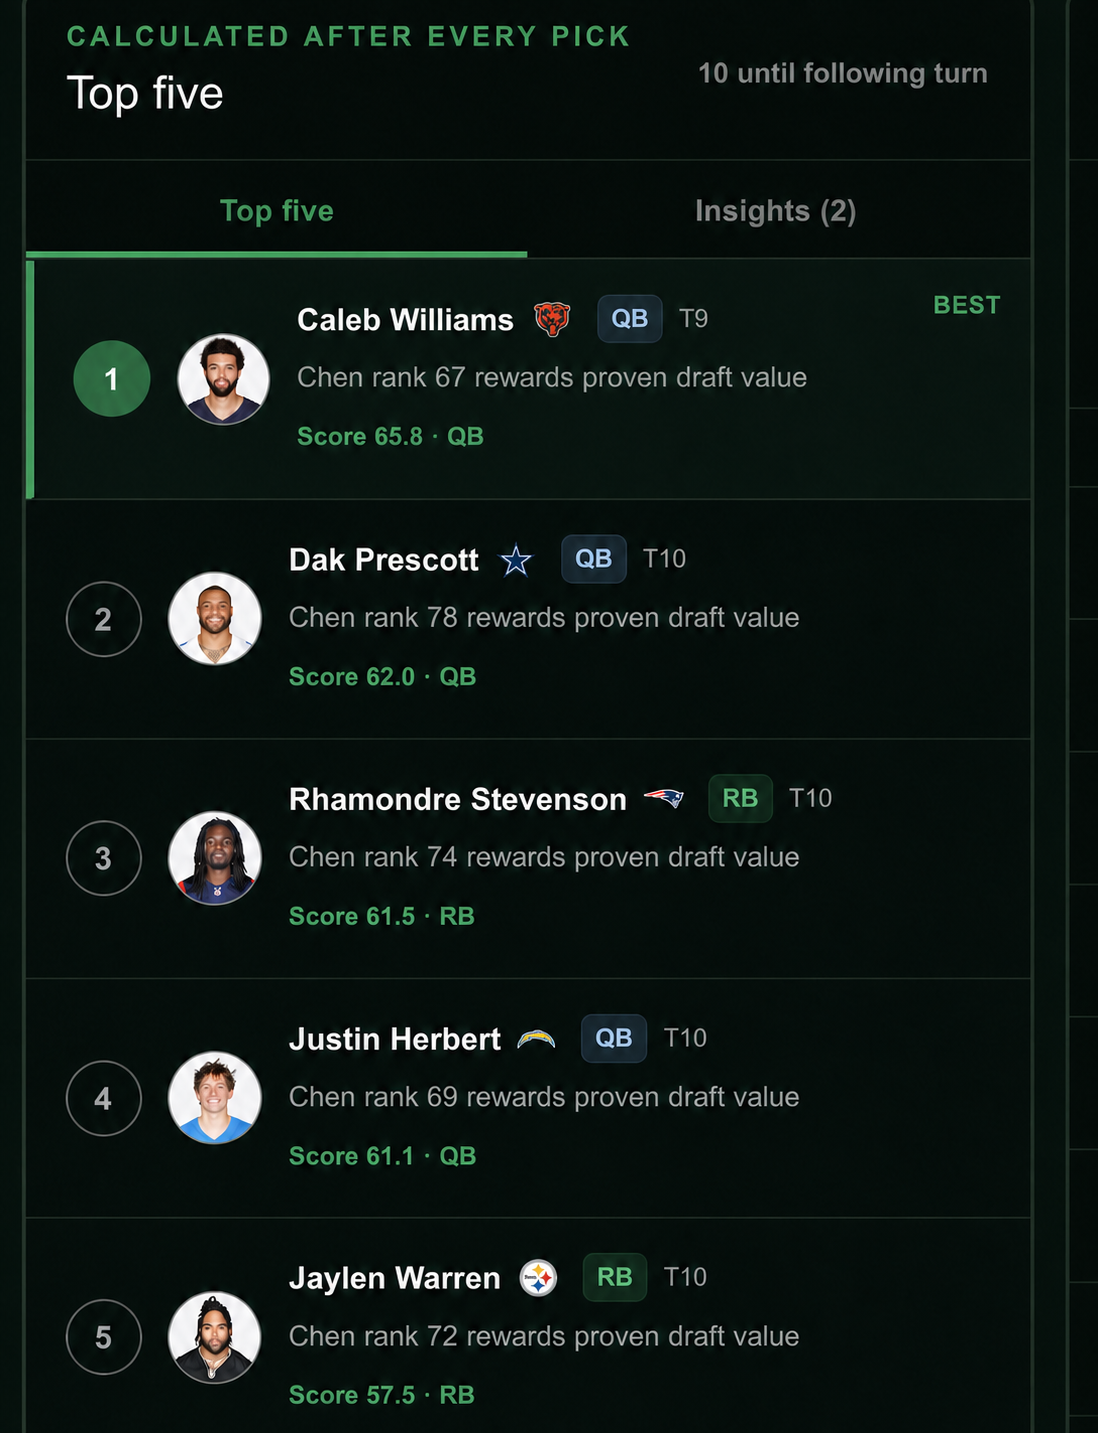
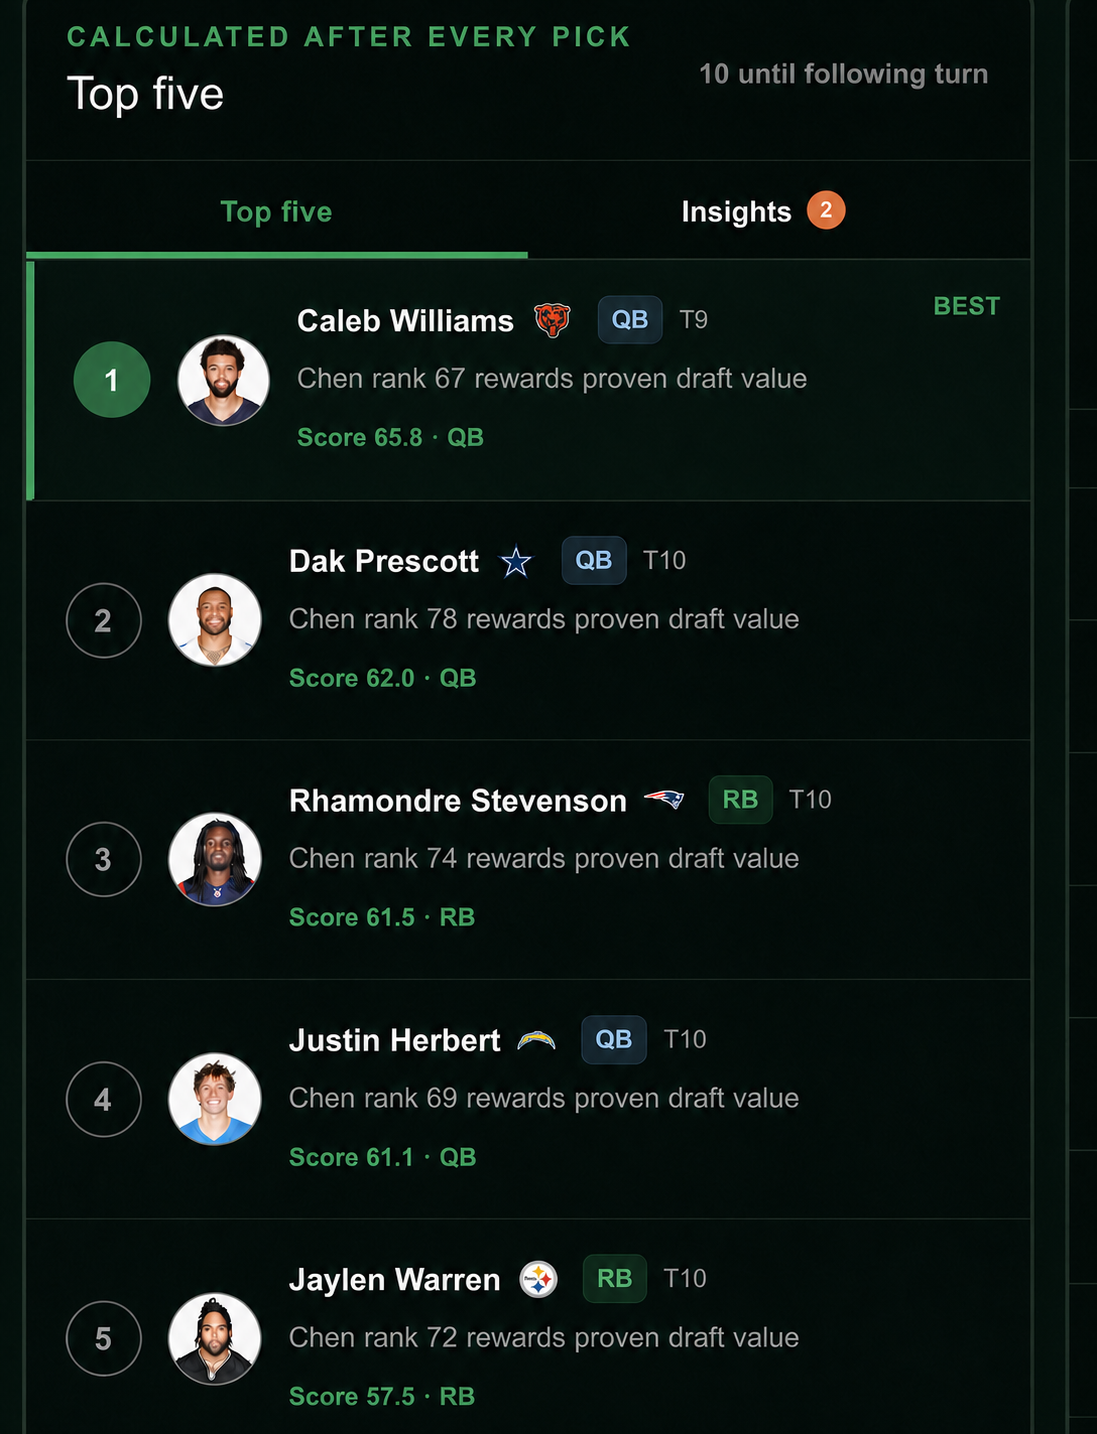
Update player ranking labels and enhance draft assistant functionality
- Added support for extended Chen boards in the ranking source identification logic.
- Enhanced the draft assistant by incorporating additional player attributes such as chenTier, byeWeek, projectedPoints, and estimatedReturnProbability.
- Improved availability labels for draft picks to provide clearer information on player availability.
- Updated CSS styles for better layout and responsiveness in the draft assistant component.

diff --git a/src/adapters/yahoo/mock-runner.ts b/src/adapters/yahoo/mock-runner.ts
@@ -3,6 +3,9 @@ import {
   remainingLineupNeed,
   type PositionCounts,
 } from "@/domain/lineup-need";
+import { recommendPlayers } from "@/domain/recommendation";
+import { rebuildDraftFromPlayers } from "@/domain/reconcile-draft";
+import type { Player } from "@/domain/types";
 import type { YahooDraftResult } from "./yahoo-api";
 
 export interface MockPlayerSeed {
@@ -11,7 +14,11 @@ export interface MockPlayerSeed {
   readonly position: "QB" | "RB" | "WR" | "TE" | "K" | "DEF";
   readonly team: string;
   readonly chenRank?: number;
+  readonly chenTier?: number;
   readonly adp?: number;
+  readonly byeWeek?: number;
+  readonly projectedPoints?: number;
+  readonly estimatedReturnProbability?: number;
 }
 
 function mockPlayerKey(player: Pick<MockPlayerSeed, "name" | "position">): string {
@@ -34,7 +41,12 @@ export function mergeMockRankingSeeds(
     return {
       ...player,
       chenRank: hit.chenRank,
+      chenTier: hit.chenTier,
       adp: hit.adp ?? player.adp,
+      byeWeek: hit.byeWeek ?? player.byeWeek,
+      projectedPoints: hit.projectedPoints ?? player.projectedPoints,
+      estimatedReturnProbability:
+        hit.estimatedReturnProbability ?? player.estimatedReturnProbability,
       team: hit.team || player.team,
     };
   });
@@ -518,11 +530,7 @@ export function autoPickDeadline(config: MockDraftConfig): number | null {
   return started + order.length * config.intervalMs + autoMs;
 }
 
-/**
- * Best-available player id for the human seat that is currently pending, using
- * the same soft position caps and K/DEF gating the robots use. Null when no
- * human is pending or the board is exhausted.
- */
+/** Pick the same #1 player the Dojo recommendation panel shows for this seat. */
 export function autoPickPlayerId(config: MockDraftConfig): string | null {
   const { humanSlots } = normalizeSeats(config);
   const order = projectedDraftOrder(config);
@@ -530,44 +538,19 @@ export function autoPickPlayerId(config: MockDraftConfig): string | null {
   const nextOverall = order.length + 1;
   const slot = slotForOverall(nextOverall, config.teamCount);
   if (!humanSlots.has(slot)) return null;
-  const round = Math.ceil(nextOverall / config.teamCount);
-
-  const sortable = [...config.players].sort((a, b) => {
-    const rank = (a.chenRank ?? 9999) - (b.chenRank ?? 9999);
-    if (rank !== 0) return rank;
-    return (a.adp ?? 9999) - (b.adp ?? 9999);
-  });
-  const drafted = new Set(order.map((player) => player.id));
-  const available = (player: MockPlayerSeed) => !drafted.has(player.id);
-  const roster: Record<MockPlayerSeed["position"], number> = {
-    QB: 0, RB: 0, WR: 0, TE: 0, K: 0, DEF: 0,
-  };
-  let picked = 0;
-  order.forEach((player, index) => {
-    if (slotForOverall(index + 1, config.teamCount) === slot) {
-      roster[player.position] += 1;
-      picked += 1;
-    }
-  });
-
-  // If the seat is running out of picks, prioritize finishing a legal starting
-  // lineup so an AFK manager never ends with a hole (e.g. no TE / one RB).
-  const completion = rosterCompletionPick(
-    sortable,
-    available,
-    roster,
-    config.rounds - picked,
+  const players = config.players as readonly Player[];
+  const state = rebuildDraftFromPlayers(
+    {
+      userSlot: slot,
+      teamCount: config.teamCount,
+      rounds: config.rounds,
+    },
+    order as readonly Player[],
   );
-  if (completion) return completion.id;
-
-  const choice = chooseRobotPlayer(
-    sortable,
-    available,
-    roster,
-    round,
-    config.rounds,
+  return (
+    recommendPlayers(state, players, { topCount: 1 }).recommendations[0]?.player
+      .id ?? null
   );
-  return choice?.id ?? null;
 }
 
 /**

diff --git a/src/components/draft-assistant.tsx b/src/components/draft-assistant.tsx
@@ -95,10 +95,14 @@ const POSITIONS: readonly (Position | "ALL")[] = [
 ];
 
 function availabilityLabel(signal: AvailabilitySignal): string {
-  if (signal === "take_now") return "Take now";
+  if (signal === "take_now") return "Draft now";
   if (signal === "safe_to_wait") return "Safe to wait";
   if (signal === "neutral") return "Toss-up";
   return "Odds unknown";
+}
+
+function nextTurnAvailabilityLabel(probability: number): string {
+  return `${Math.round(probability * 100)}% chance available next turn`;
 }
 
 function createAudioContext(): AudioContext | null {
@@ -2229,8 +2233,8 @@ export function DraftAssistant({
                       </strong>
                       <span>
                         {detailAvailability
-                          ? availabilityLabel(detailAvailability.signal)
-                          : "Next-turn odds"}
+                          ? `Available next turn · ${availabilityLabel(detailAvailability.signal)}`
+                          : "Chance available next turn"}
                       </span>
                     </div>
                     <div>
@@ -2541,7 +2545,7 @@ export function DraftAssistant({
                     >
                       {availability.probability == null
                         ? availabilityLabel(availability.signal)
-                        : `${Math.round(availability.probability * 100)}% · ${availabilityLabel(availability.signal)}`}
+                        : `${nextTurnAvailabilityLabel(availability.probability)} · ${availabilityLabel(availability.signal)}`}
                     </span>
                   ) : null}
                 </small>

diff --git a/src/app/globals.css b/src/app/globals.css
@@ -1357,16 +1357,18 @@ h2 {
 }
 
 .data-source {
-  display: flex;
+  display: grid;
+  grid-template-columns: minmax(0, 1fr) auto;
   align-items: center;
   justify-content: space-between;
-  gap: 10px;
+  gap: 10px 16px;
   padding: 7px 14px 0;
   color: var(--muted);
   font-size: 11px;
 }
 
 .data-source p {
+  grid-column: 1 / -1;
   margin: 0;
   min-width: 0;
 }
@@ -4364,14 +4366,6 @@ body:has(.landing) {
   display: grid;
   gap: 8px;
   margin-top: 16px;
-}
-
-.data-source {
-  display: flex;
-  flex-wrap: wrap;
-  gap: 12px;
-  align-items: center;
-  justify-content: space-between;
 }
 
 @media (max-width: 860px) {

diff --git a/tests/unit/ranking-labels.test.ts b/tests/unit/ranking-labels.test.ts
@@ -10,6 +10,12 @@ describe("ranking source labels", () => {
     expect(sourceFromBoard("FantasyPros ECR · 0.5 PPR")).toBe("fantasypros");
     expect(sourceFromBoard("Boris Chen - 0.5 PPR + K")).toBe("chen");
     expect(
+      sourceFromBoard("Boris Chen · 0.5 PPR + K + Sleeper ADP"),
+    ).toBe("chen");
+    expect(
+      sourceFromBoard("Boris Chen · PPR + FantasyPros"),
+    ).toBe("chen");
+    expect(
       sourceFromBoard("Dojo blend · Chen + FantasyPros + Sleeper · 0.5 PPR"),
     ).toBe("blend");
   });

diff --git a/src/adapters/rankings/labels.ts b/src/adapters/rankings/labels.ts
@@ -21,6 +21,9 @@ export function sourceFromBoard(
 ): RankingSourceId {
   const text = source ?? "";
   if (/dojo blend|\bblend ·/i.test(text)) return "blend";
+  // Extended Chen boards retain Chen as their primary expert even when
+  // Sleeper/FantasyPros only supplied extra late-round names.
+  if (/^(?:boris\s+)?chen\b/i.test(text)) return "chen";
   if (/fantasypros|ecr/i.test(text)) return "fantasypros";
   if (/sleeper/i.test(text)) return "sleeper";
   if (/calculator|ffcalc|adp/i.test(text)) return "ffcalc";

diff --git a/src/domain/pick-availability.ts b/src/domain/pick-availability.ts
@@ -123,7 +123,9 @@ export function estimatePlayerAvailability(
   }
 
   const rounded = Math.round(probability * 100);
-  const reasons = [`${rounded}% chance to last until pick ${targetOverall ?? "—"}`];
+  const reasons = [
+    `${rounded}% chance this player is still available at your next turn (pick ${targetOverall ?? "—"})`,
+  ];
   if (demand.teamsNeeding >= 2) {
     reasons.push(
       `${demand.teamsNeeding} intervening picks fill a ${player.position} need`,

diff --git a/src/app/page.tsx b/src/app/page.tsx
@@ -158,8 +158,8 @@ export default function LandingPage() {
               </div>
               <Image
                 src="/landing/top-five-dark.png"
-                width={1098}
-                height={1433}
+                width={1097}
+                height={1434}
                 alt="Top Five recommendation list recalculated after every draft pick"
                 sizes="(max-width: 700px) 100vw, 50vw"
               />
